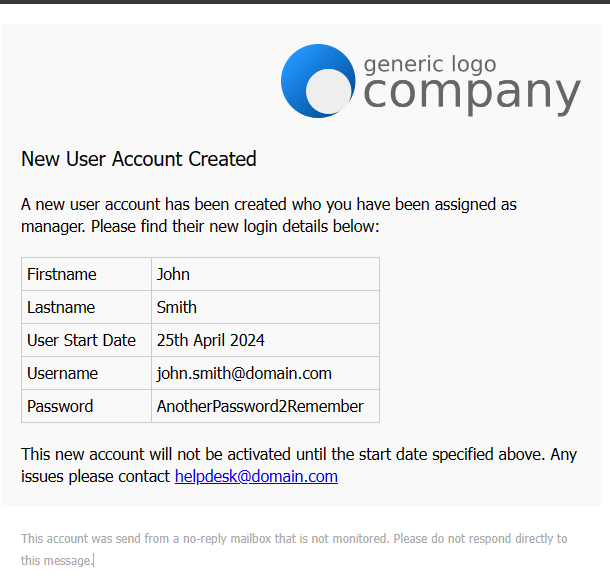
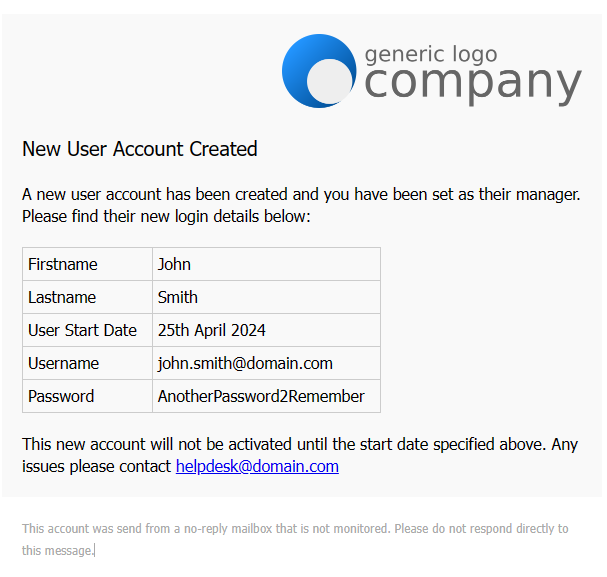
Small change

diff --git a/template_01_newuseraccount.html b/template_01_newuseraccount.html
@@ -73,7 +73,7 @@
[1 lines of base64/hex data omitted]
 		</div>
 		<div class="title mtop">New User Account Created</div>
-		<div class="text mtop">A new user account has been created who you have been assigned as manager. Please find their new login details below:</div> 
+		<div class="text mtop">A new user account has been created and you have been set as their manager. Please find their new login details below:</div> 
 	
 		<table class="mtop">
 			<tr>
